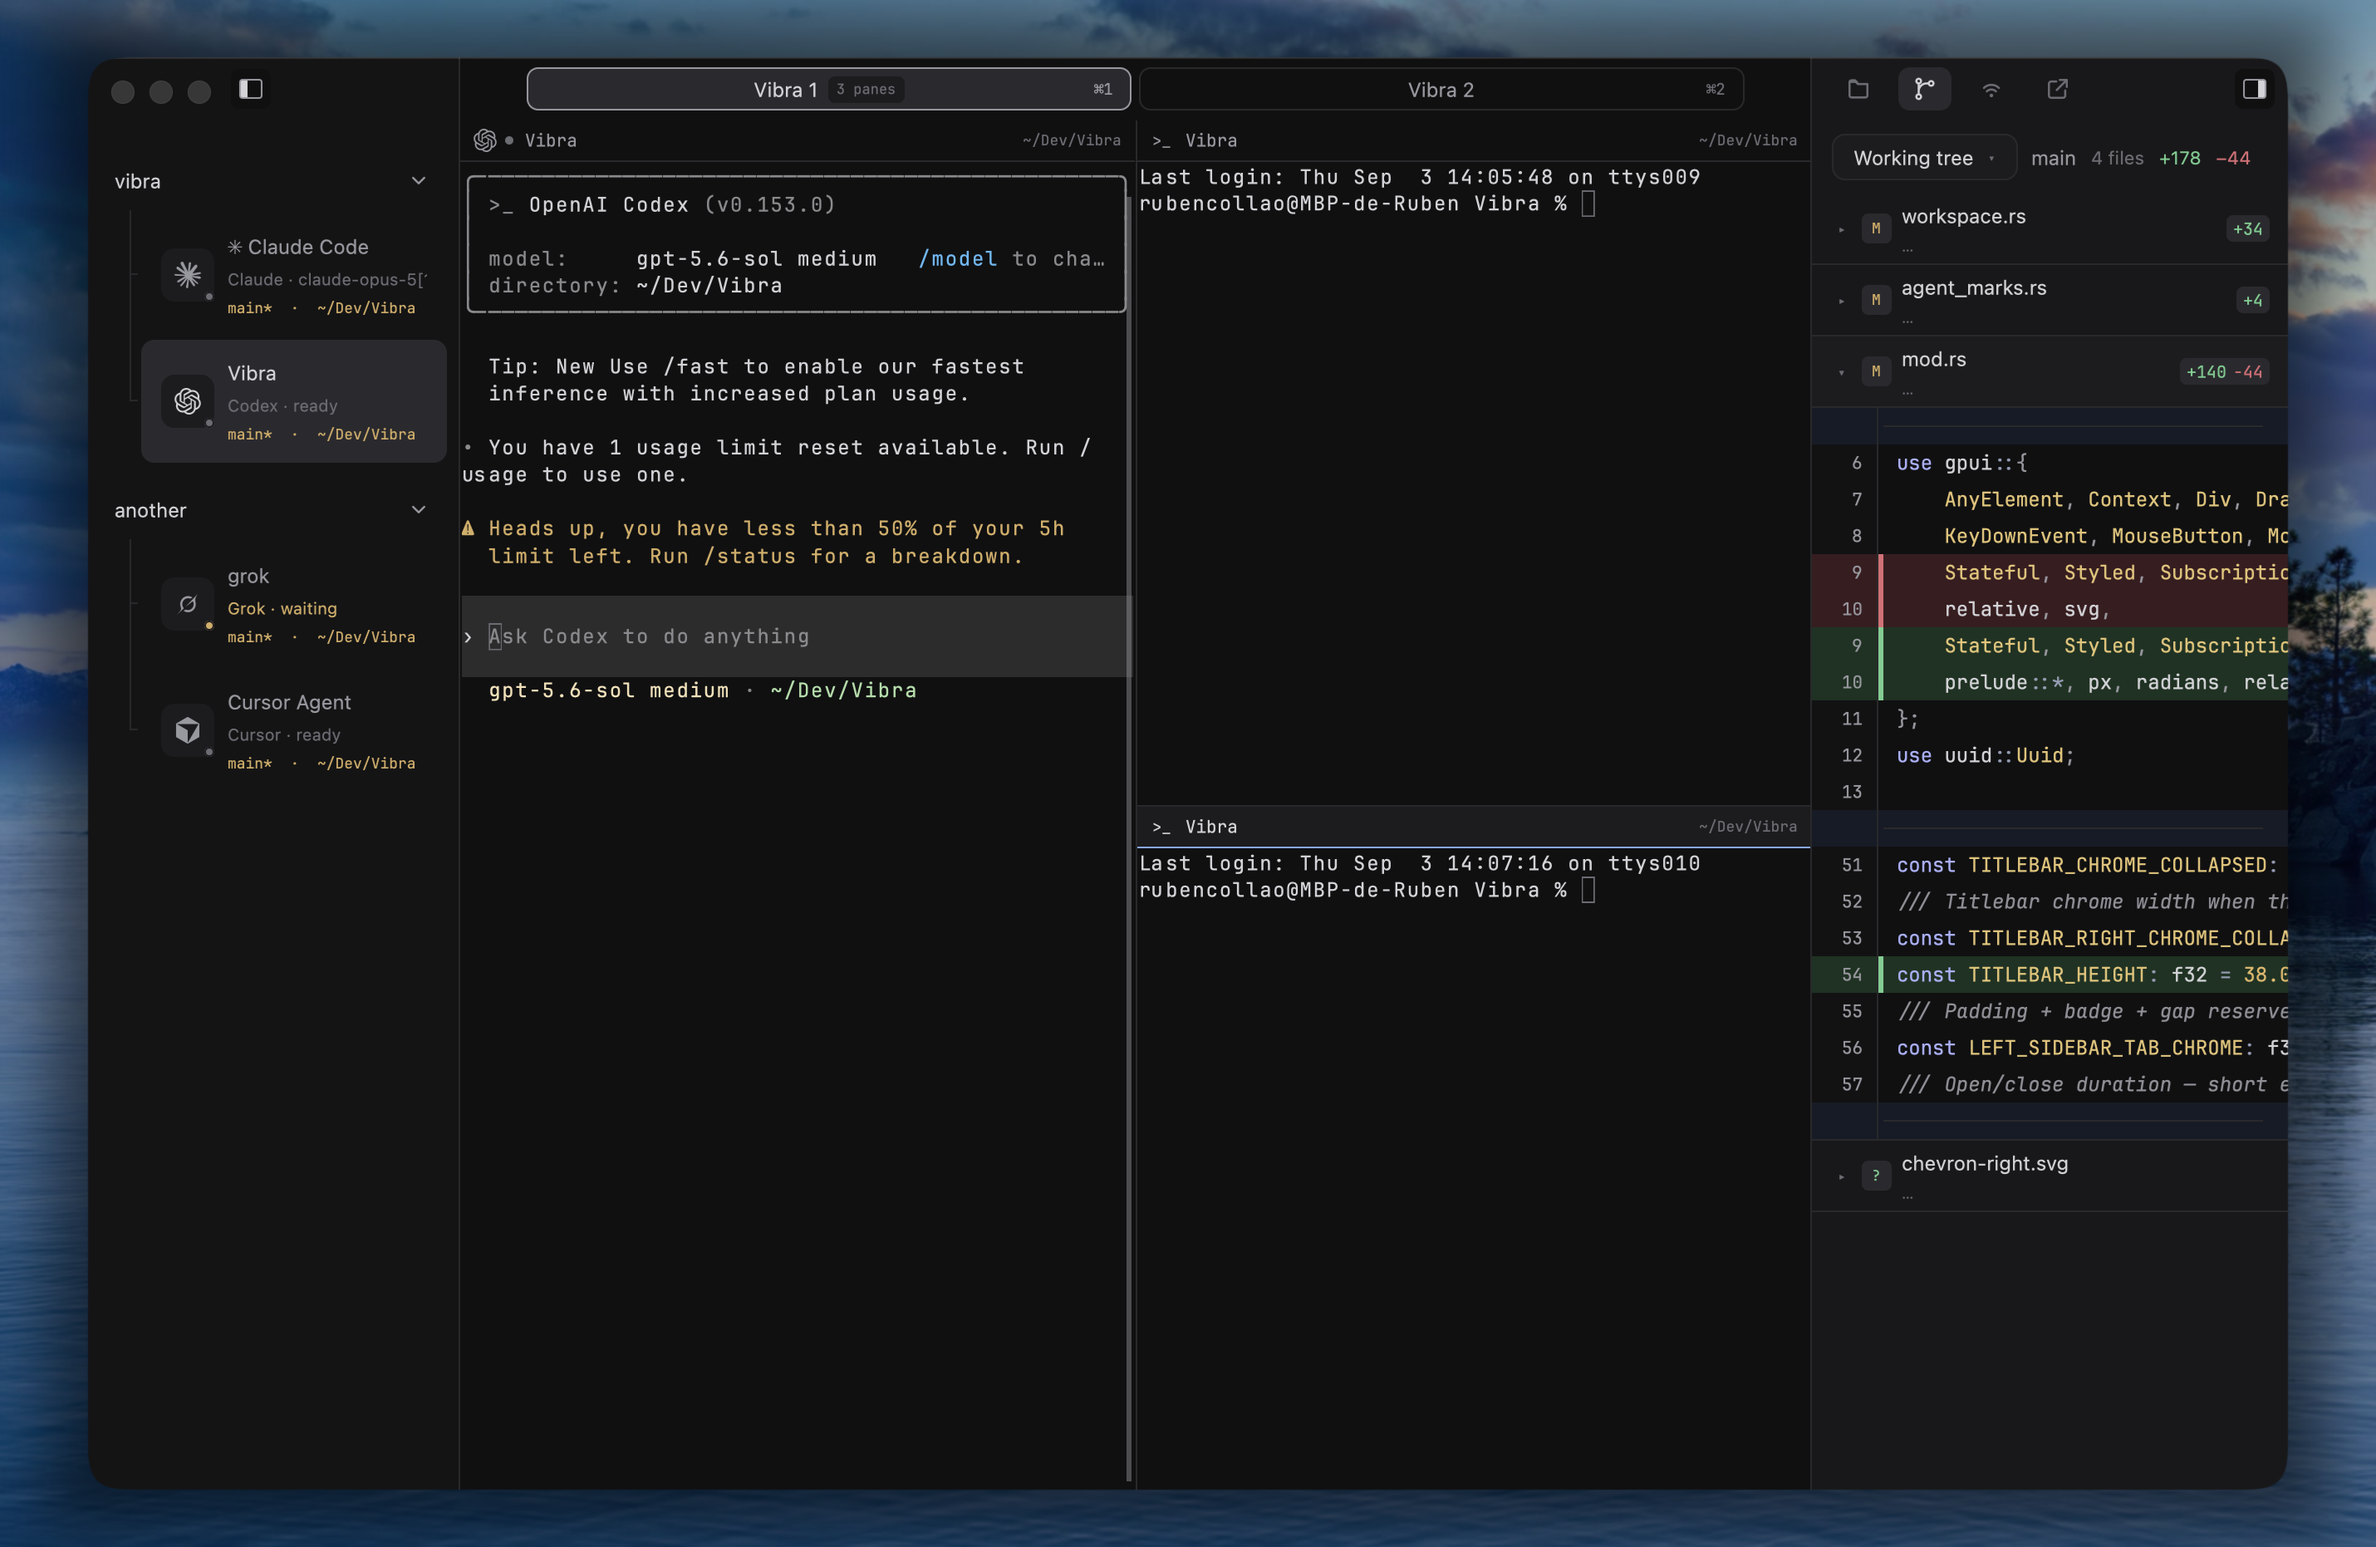
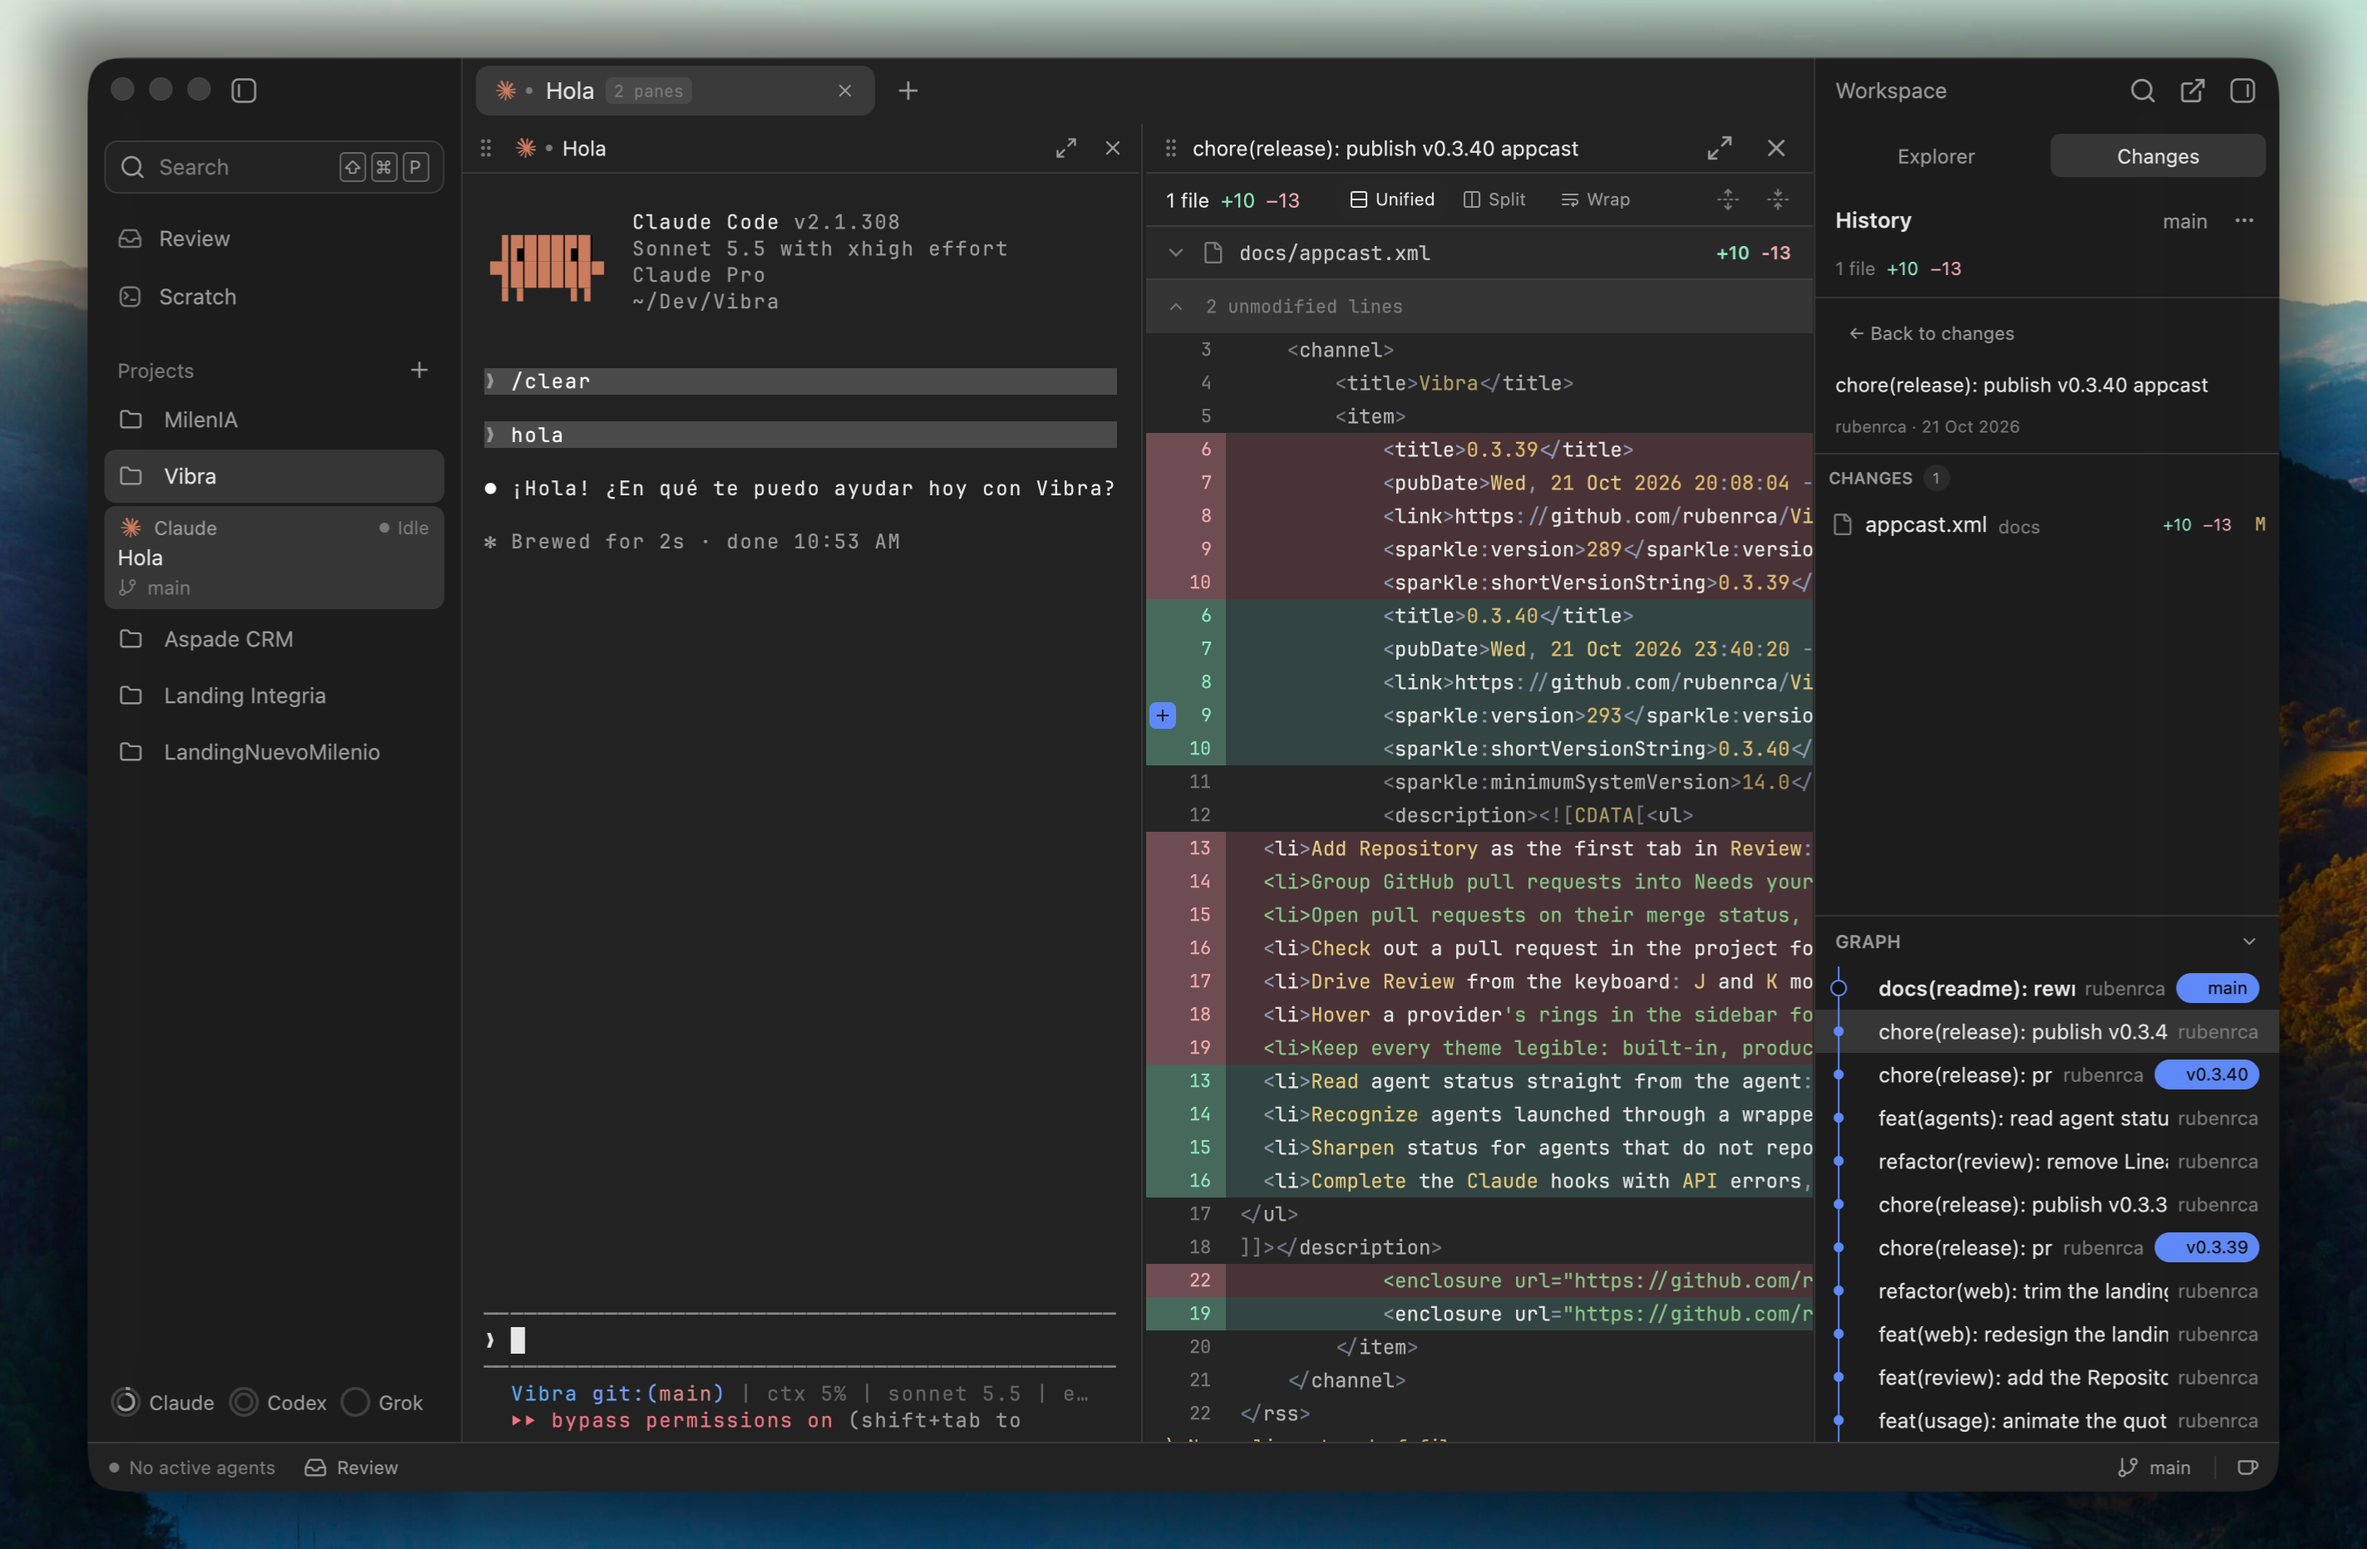
docs(readme): update screenshot and link tryvibra.dev

diff --git a/README.md b/README.md
@@ -8,7 +8,8 @@ agent tracking into a single window.
 
 ## Install
 
-Download the latest `Vibra.dmg` from [Releases](https://github.com/rubenrca/Vibra/releases/latest).
+Download the latest `Vibra.dmg` from [tryvibra.dev](https://tryvibra.dev) or
+[Releases](https://github.com/rubenrca/Vibra/releases/latest).
 Vibra requires macOS 14 or later and updates itself with Sparkle (`⌘U` checks for
 updates).
 
